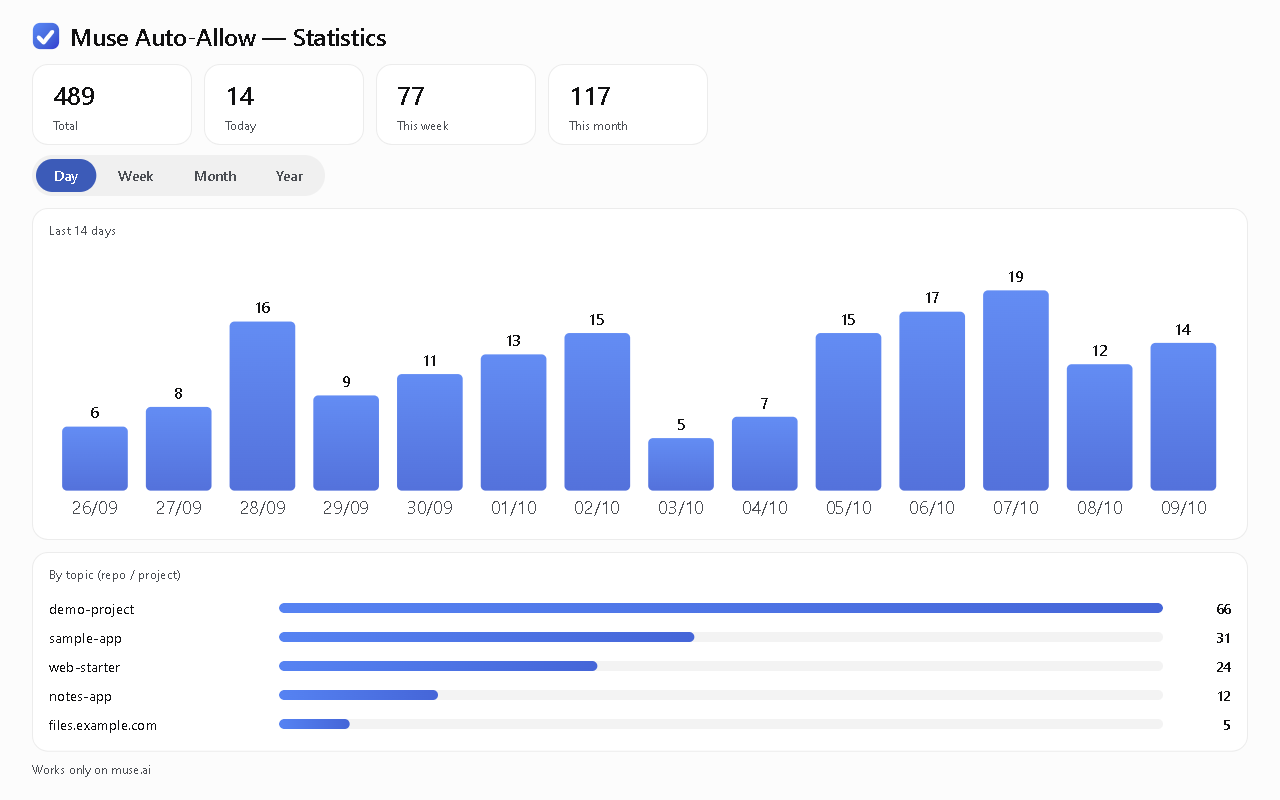
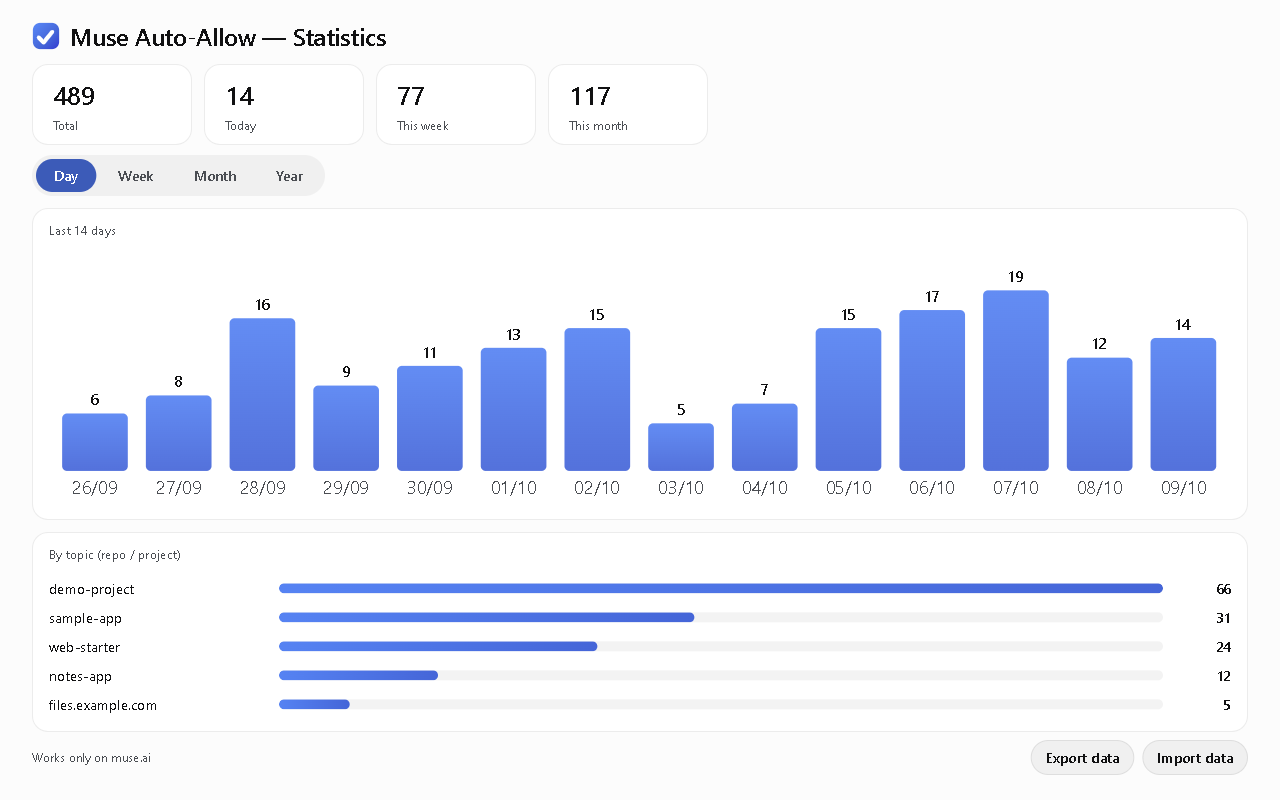
feat(v1.5.0): upgrade-safe inheritance, encrypted-at-rest log, backup/restore, local-time log, full Chrome showcase kit
- data inheritance: schemaVersion stamp + legacy shapes stay readable (plaintext entries keep rendering)
- AES-GCM-256 at-rest encryption for log approval text (per-install key; documented limitation), popup decrypts, graceful degradation
- Statistics page: Export data / Import data (full JSON backup incl. key; validates app marker + confirm)
- log timestamps now show the viewer's LOCAL system time (hover = full local datetime)
- showcase kit to Chrome standards: marquee 1400x560 + store/SHOWCASE.md index; neutral demo data everywhere
- e2e exit 0; stats fit h:800/w:1280; zip v1.5.0 18/18 byte-verified

diff --git a/extension/content.js b/extension/content.js
@@ -249,6 +249,38 @@
     for (const k of keys.slice(0, keys.length - keep)) delete map[k];
   }
   const asObj = (v) => (v && typeof v === 'object' && !Array.isArray(v)) ? v : {};
+  // --- v1.5.0: at-rest encryption for the approval text (log context) + schema stamp ---
+  // AES-GCM (key per install, kept in chrome.storage.local). Protects against casual
+  // inspection of the browser profile on disk; it is NOT protection against an attacker
+  // who already has full access to the profile (the key lives there too). Legacy
+  // plaintext entries from older versions stay readable (upgrade inheritance).
+  let cryptKey = null;
+  const b64 = (buf) => btoa(String.fromCharCode(...new Uint8Array(buf)));
+  const unb64 = (s) => Uint8Array.from(atob(s), (c) => c.charCodeAt(0));
+  async function getKey() {
+    if (cryptKey) return cryptKey;
+    try {
+      const s = await chrome.storage.local.get({ cryptKeyRaw: null });
+      if (s.cryptKeyRaw) {
+        cryptKey = await crypto.subtle.importKey('raw', unb64(s.cryptKeyRaw), 'AES-GCM', false, ['encrypt', 'decrypt']);
+        return cryptKey;
+      }
+      const k = await crypto.subtle.generateKey({ name: 'AES-GCM', length: 256 }, true, ['encrypt', 'decrypt']);
+      const raw = await crypto.subtle.exportKey('raw', k);
+      await chrome.storage.local.set({ cryptKeyRaw: b64(raw) });
+      cryptKey = k;
+      return k;
+    } catch { return null; }
+  }
+  async function encryptCtx(text) {
+    try {
+      const k = await getKey();
+      if (!k) return null;
+      const iv = crypto.getRandomValues(new Uint8Array(12));
+      const ct = await crypto.subtle.encrypt({ name: 'AES-GCM', iv }, k, new TextEncoder().encode(String(text || '')));
+      return { iv: b64(iv), ct: b64(ct) };
+    } catch { return null; }
+  }
   // One get->set per flush, updating log + counter + aggregates together. Flushes are
   // serialized per tab (clickFlushing) and, when the Web Locks API is available, across
   // tabs of the same origin too (redteam V3-2: the 1-minute alarm can nudge several
@@ -259,14 +291,20 @@
     clickFlushing = true;
     const run = () => new Promise((resolve) => {
       try {
-        chrome.storage.local.get({ log: [], stats: null, clickCount: 0 }, (s) => {
+        chrome.storage.local.get({ log: [], stats: null, clickCount: 0 }, async (s) => {
           const log = Array.isArray(s.log) ? s.log : [];
           let count = Number(s.clickCount) || 0;
           const st = asObj(s.stats);
           st.byDay = asObj(st.byDay); st.byMonth = asObj(st.byMonth); st.byYear = asObj(st.byYear); st.byTopic = asObj(st.byTopic);
           while (clickQueue.length) {
             const item = clickQueue.shift();
-            log.unshift(item.entry);
+            const entry = item.entry;
+            // encrypt the approval text at rest; on failure keep plaintext (never lose the record)
+            try {
+              const enc = await encryptCtx(entry.context);
+              if (enc) { entry.ctx = enc; delete entry.context; }
+            } catch { /* keep plaintext */ }
+            log.unshift(entry);
             count += 1;
             st.byDay[item.day] = (Number(st.byDay[item.day]) || 0) + 1;
             st.byMonth[item.month] = (Number(st.byMonth[item.month]) || 0) + 1;
@@ -274,7 +312,7 @@
             st.byTopic[item.topic] = (Number(st.byTopic[item.topic]) || 0) + 1;
           }
           pruneKeys(st.byDay, 400); pruneKeys(st.byMonth, 24); pruneTopics(st.byTopic, 100);
-          try { chrome.storage.local.set({ log: log.slice(0, 50), stats: st, clickCount: count }); } catch { /* invalidated */ }
+          try { chrome.storage.local.set({ log: log.slice(0, 50), stats: st, clickCount: count, schemaVersion: 2 }); } catch { /* invalidated */ }
           resolve();
         });
       } catch { resolve(); }

diff --git a/extension/popup.js b/extension/popup.js
@@ -19,15 +19,48 @@ function esc(s) {
 const KIND_KEY = { allow: 'kindAllow', expand: 'kindExpand', 'open-panel': 'kindOpenPanel' };
 const kindLabel = (k) => t(KIND_KEY[k] || '', k);
 
-function renderLog(log) {
-  $('log').innerHTML = log.length
-    ? log.slice(0, 50).map((e) => {
+// --- v1.5.0: decrypt at-rest context + show the user's LOCAL system time ---
+let popCryptKey = null;
+const unb64p = (s) => Uint8Array.from(atob(s), (c) => c.charCodeAt(0));
+async function popKey() {
+  if (popCryptKey) return popCryptKey;
+  try {
+    const s = await chrome.storage.local.get({ cryptKeyRaw: null });
+    if (!s.cryptKeyRaw) return null;
+    popCryptKey = await crypto.subtle.importKey('raw', unb64p(s.cryptKeyRaw), 'AES-GCM', false, ['decrypt']);
+    return popCryptKey;
+  } catch { return null; }
+}
+async function decCtx(e) {
+  if (e && e.ctx && e.ctx.iv && e.ctx.ct) {
+    try {
+      const k = await popKey();
+      if (!k) return '(encrypted)';
+      const pt = await crypto.subtle.decrypt({ name: 'AES-GCM', iv: unb64p(e.ctx.iv) }, k, unb64p(e.ctx.ct));
+      return new TextDecoder().decode(pt);
+    } catch { return '(unable to decrypt)'; }
+  }
+  return String((e && e.context) || ''); // legacy plaintext entries stay readable
+}
+// log times always show the viewer's system clock (stored values are UTC ISO)
+function localTime(iso) {
+  try { const d = new Date(iso); if (isNaN(d.getTime())) return ''; return pad2(d.getHours()) + ':' + pad2(d.getMinutes()) + ':' + pad2(d.getSeconds()); } catch { return ''; }
+}
+function localFull(iso) {
+  try { const d = new Date(iso); return isNaN(d.getTime()) ? '' : d.toLocaleString(); } catch { return ''; }
+}
+let renderSeq = 0;
+async function renderLog(log) {
+  const seq = ++renderSeq;
+  const items = await Promise.all(log.slice(0, 50).map(async (e) => ({ e, plain: await decCtx(e) })));
+  if (seq !== renderSeq) return; // a newer render superseded this one
+  $('log').innerHTML = items.length
+    ? items.map(({ e, plain }) => {
         const k = e.kind || 'allow';
-        const ctx = String(e.context || '');
-        const ctxS = ctx.length > 170 ? ctx.slice(0, 170) + '…' : ctx;
+        const ctxS = plain.length > 170 ? plain.slice(0, 170) + '…' : plain;
         const lbl = String(e.label || '');
         const lblS = lbl.length > 40 ? lbl.slice(0, 40) + '…' : lbl;
-        return '<div class="item"><span class="t">' + esc((e.at || '').slice(11, 19)) + '</span>' +
+        return '<div class="item"><span class="t" title="' + esc(localFull(e.at)) + '">' + esc(localTime(e.at)) + '</span>' +
           '<span class="k k-' + esc(k) + '">' + esc(kindLabel(k)) + '</span>' +
           '<b>' + esc(lblS) + '</b>' +
           '<div class="c">' + esc(ctxS) + '</div></div>';

diff --git a/extension/stats.js b/extension/stats.js
@@ -69,7 +69,7 @@ function renderChart() {
   const svg = $('chart');
   const data = series();
   $('ccap').textContent = t(CAP[RANGE][0], CAP[RANGE][1]);
-  const W = 720, H = 170, padL = 8, padR = 8, padT = 26, padB = 22;
+  const W = 720, H = 158, padL = 8, padR = 8, padT = 26, padB = 22;
   const innerW = W - padL - padR, innerH = H - padT - padB;
   const n = data.length || 1;
   const gap = Math.max(3, Math.floor(innerW / n * 0.22));
@@ -154,4 +154,39 @@ $('seg').addEventListener('click', (e) => {
   RANGE = b.dataset.range;
   document.querySelectorAll('#seg button').forEach((x) => x.classList.toggle('active', x === b));
   renderChart();
+});
+
+// --- v1.5.0: backup / restore (upgrade-safe data inheritance) ---
+// Export bundles the full chrome.storage.local state (settings, log — including the
+// encryption key so the backup stays readable, stats aggregates, counters) into one
+// JSON file. Import validates the app marker, confirms, then replaces the stored state.
+$('exportData').addEventListener('click', async () => {
+  try {
+    const s = await chrome.storage.local.get(null);
+    const payload = { app: 'muse-auto-allow', schemaVersion: 2, exportedAt: new Date().toISOString(), data: s };
+    const blob = new Blob([JSON.stringify(payload, null, 2)], { type: 'application/json' });
+    const url = URL.createObjectURL(blob);
+    const a = document.createElement('a');
+    a.href = url;
+    a.download = 'muse-auto-allow-backup-' + new Date().toISOString().slice(0, 10) + '.json';
+    a.click();
+    setTimeout(() => URL.revokeObjectURL(url), 4000);
+  } catch { /* ignore */ }
+});
+$('importData').addEventListener('click', () => { try { $('importFile').click(); } catch { /* ignore */ } });
+$('importFile').addEventListener('change', async (ev) => {
+  const f = ev.target.files && ev.target.files[0];
+  if (!f) return;
+  try {
+    const j = JSON.parse(await f.text());
+    if (!j || j.app !== 'muse-auto-allow' || !j.data || typeof j.data !== 'object') {
+      alert(t('importBad', 'Not a Muse Auto-Allow backup file.'));
+    } else if (confirm(t('importConfirm', 'Restore this backup? Current settings, log and statistics will be replaced.'))) {
+      await chrome.storage.local.set(j.data);
+      renderAll();
+    }
+  } catch {
+    alert(t('importBad', 'Not a Muse Auto-Allow backup file.'));
+  }
+  ev.target.value = '';
 });

diff --git a/assets/marquee.html b/assets/marquee.html
@@ -1,0 +1,40 @@
+<!doctype html>
+<html lang="en">
+<head>
+<meta charset="utf-8">
+<style>
+  html, body { margin: 0; width: 1400px; height: 560px; overflow: hidden; background: #fcfcfc;
+               color: #111112; font-family: "Optimistic", "optimisticAI", -apple-system, BlinkMacSystemFont, "Segoe UI", system-ui, sans-serif; }
+  .blob { position: absolute; border-radius: 50%; filter: blur(70px); }
+  .b1 { width: 520px; height: 520px; background: #f3d9b4; left: -160px; top: -200px; opacity: .5; }
+  .b2 { width: 500px; height: 500px; background: #cfe2ff; right: -160px; bottom: -220px; opacity: .8; }
+  .wrap { position: relative; height: 100%; display: flex; flex-direction: column; align-items: center;
+          justify-content: center; gap: 0; text-align: center; }
+  .tile { width: 124px; height: 124px; border-radius: 32px; box-shadow: 0 14px 40px rgba(0,64,220,.18); }
+  h1 { margin: 22px 0 0; font-size: 52px; font-weight: 500; letter-spacing: -0.015em; }
+  p { margin: 12px 0 0; color: #4a4e54; font-size: 20px; }
+  .chips { display: flex; gap: 12px; margin-top: 26px; }
+  .chip { background: rgba(17,17,18,.07); color: #2c2e33; font-size: 15px; font-weight: 500;
+          padding: 9px 18px; border-radius: 999px; }
+</style>
+</head>
+<body>
+  <div class="blob b1"></div><div class="blob b2"></div>
+  <div class="wrap">
+    <svg class="tile" viewBox="0 0 512 512" xmlns="http://www.w3.org/2000/svg">
+      <defs><linearGradient id="bg" x1="72" y1="60" x2="452" y2="464" gradientUnits="userSpaceOnUse">
+        <stop offset="0" stop-color="#0082FB"/><stop offset="0.62" stop-color="#0064E0"/><stop offset="1" stop-color="#0040DC"/>
+      </linearGradient></defs>
+      <rect x="16" y="16" width="480" height="480" rx="133" fill="url(#bg)"/>
+      <path d="M118 284 L208 374 L362 182" fill="none" stroke="#fff" stroke-width="70" stroke-linecap="round" stroke-linejoin="round"/>
+    </svg>
+    <h1>Muse Auto-Allow</h1>
+    <p>Approvals on autopilot &mdash; every Allow, instantly. Local-only, encrypted at rest.</p>
+    <div class="chips">
+      <span class="chip">Allow only &mdash; never Deny</span>
+      <span class="chip">Runs locally, sends nothing</span>
+      <span class="chip">6 languages</span>
+    </div>
+  </div>
+</body>
+</html>

diff --git a/extension/stats.html b/extension/stats.html
@@ -37,7 +37,12 @@
   .topic .bar i { display: block; height: 100%; width: 0; background: linear-gradient(90deg, #0082FB, #0064E0); border-radius: 999px; transition: width .35s ease; }
   .topic .n { width: 58px; text-align: right; color: var(--ink); font-weight: 500; font-variant-numeric: tabular-nums; }
   .empty { color: var(--muted); padding: 8px 0; }
-  .foot { color: var(--muted); font-size: 12px; margin-top: 8px; }
+  .footrow { display: flex; align-items: center; justify-content: space-between; margin-top: 8px; }
+  .foot { color: var(--muted); font-size: 12px; }
+  .tools { display: flex; gap: 8px; }
+  .tool { background: var(--fill); color: var(--ink); border: 1px solid var(--line); border-radius: 999px;
+          padding: 6px 14px; cursor: pointer; font: inherit; font-weight: 500; }
+  .tool:hover { filter: brightness(.97); }
   ::-webkit-scrollbar { width: 10px; height: 10px; }
   ::-webkit-scrollbar-thumb { background: rgba(17,17,18,.18); border-radius: 999px; }
   ::-webkit-scrollbar-track { background: transparent; }
@@ -67,14 +72,21 @@
     <button data-range="year" data-i18n="rangeYear">Year</button>
   </div>
 
-  <div class="chart"><div class="ccap" id="ccap"></div><svg id="chart" viewBox="0 0 720 170" role="img"></svg></div>
+  <div class="chart"><div class="ccap" id="ccap"></div><svg id="chart" viewBox="0 0 720 158" role="img"></svg></div>
 
   <div class="topics">
     <div class="cap" data-i18n="topicsTitle">By topic (repo / project)</div>
     <div id="topics"></div>
   </div>
 
-  <div class="foot" data-i18n="onlyMuse">Works only on muse.ai</div>
+  <div class="footrow">
+    <span class="foot" data-i18n="onlyMuse">Works only on muse.ai</span>
+    <span class="tools">
+      <button class="tool" id="exportData" data-i18n="exportData">Export data</button>
+      <button class="tool" id="importData" data-i18n="importData">Import data</button>
+      <input type="file" id="importFile" accept="application/json" style="display:none">
+    </span>
+  </div>
   <script src="stats.js"></script>
 </body>
 </html>

diff --git a/store/SHOWCASE.md b/store/SHOWCASE.md
@@ -1,0 +1,41 @@
+# Chrome Web Store — Showcase Kit
+
+Asset inventory for the public listing. All sizes verified; all demo data is strictly
+fictional (Example Org, demo-project, sample-app, web-starter, notes-app,
+files.example.com) — never real projects or personal data.
+
+| Asset | File | Size | Store requirement |
+|---|---|---|---|
+| Extension icon | `extension/icons/icon128.png` | 128×128 | required (in package) |
+| Screenshot 1 — live popup + approval cards (real runtime capture) | `store/screenshot1.png` | 1280×800 | required (≥1; 1280×800 or 640×400) |
+| Screenshot 2 — Statistics dashboard (real render) | `store/screenshot2-stats.png` | 1280×800 | up to 5 total |
+| Screenshot 3 — popup (real render) | `store/screenshot3-popup.png` | 1280×800 | up to 5 total |
+| Screenshot 4 — designed overview | `store/screenshot4-overview.png` | 1280×800 | up to 5 total |
+| Small promo tile | `store/promo440x280.png` | 440×280 | optional (featured placement) |
+| Marquee promo | `store/marquee1400x560.png` | 1400×560 | optional (featured placement) |
+| Listing copy (6 locales) | `store/LISTING.md` | — | title / short / full description per locale |
+| Permission justifications | `store/LISTING.md` §5 | — | required in dashboard |
+| Privacy policy | `store/PRIVACY.md` | — | required (public URL before submit) |
+| Package | `dist/muse-auto-allow-v1.5.0.zip` | 18 files | built by `scripts/build.mjs`, byte-verified by `scripts/verify-zip.py` |
+| Brand spec | `docs/BRANDING.md` | — | internal reference (tokens, mark, rules) |
+
+## Regenerate everything
+
+```bash
+node scripts/render.mjs        # icons, promo, marquee, overview
+node scripts/stats-shot.mjs    # screenshot2 (stats) + screenshot3 (popup) + dark QA pair
+node scripts/store-shot.mjs    # screenshot1 (real runtime capture)
+node scripts/build.mjs && python scripts/verify-zip.py
+```
+
+Dark-mode renders are captured to the OS temp dir (`maa-dark/`) for QA only — the
+store images are light-theme (Muse language).
+
+## Pre-submit checklist
+
+- [ ] Replace the `TODO: fill before submit` placeholders in `store/PRIVACY.md` (publisher legal name, support email/URL, effective date)
+- [ ] Upload screenshots 1–4, promo tile, marquee
+- [ ] Paste listing copy per locale from `store/LISTING.md`
+- [ ] Paste permission justifications (storage / alarms / host)
+- [ ] Host the privacy policy at a public URL and paste it into the dashboard
+- [ ] Build + verify the zip; upload `dist/muse-auto-allow-v1.5.0.zip`

diff --git a/CHANGELOG.md b/CHANGELOG.md
@@ -1,5 +1,12 @@
 # Changelog
 
+## 1.5.0
+- Upgrade-safe data inheritance: a `schemaVersion` stamp is written with every flush; all prior shapes (log, counters, aggregates) stay readable — nothing is dropped on upgrade. Legacy plaintext log entries keep rendering.
+- Encrypted at rest: the approval text in the click log is stored AES-GCM-256 encrypted (per-install key in `chrome.storage.local`; documented limitation — protects casual profile inspection, not a full local attacker). The popup decrypts for display; undecryptable entries degrade gracefully.
+- Backup / restore: the Statistics page gains "Export data" / "Import data" — one JSON file with settings, log (incl. the key so backups stay readable), statistics and counters; import validates the app marker and confirms before replacing.
+- Log timestamps now display the viewer's LOCAL system clock (stored values remain UTC ISO; hover shows the full local date-time).
+- Store showcase kit completed to Chrome Web Store standards: 4 screenshots (1280×800), promo 440×280, new marquee 1400×560, `store/SHOWCASE.md` index; all demo data strictly fictional.
+
 ## 1.4.0
 - UI/UX overhaul in Muse's design language (tokens captured from the live site, 2026-10-09): light-first surfaces (`#fcfcfc` page, white cards, `#111112` ink, `#005abf` accent, pill controls, weight-500 tight-tracked headings) with a full dark theme via `prefers-color-scheme` (`#18191a` / `#242526` / `#0a5ce0`); popup + Statistics page rebuilt on shared tokens.
 - Brand Kit v2 (`docs/BRANDING.md`): original check-on-tile mark with the brand gradient `#0082FB → #0064E0 → #0040DC` (Muse-compatible palette, deliberately not Muse's trademarked squiggle); refined 16/32/48/128/512 icons; new promo tile + designed overview; every store asset regenerated.
